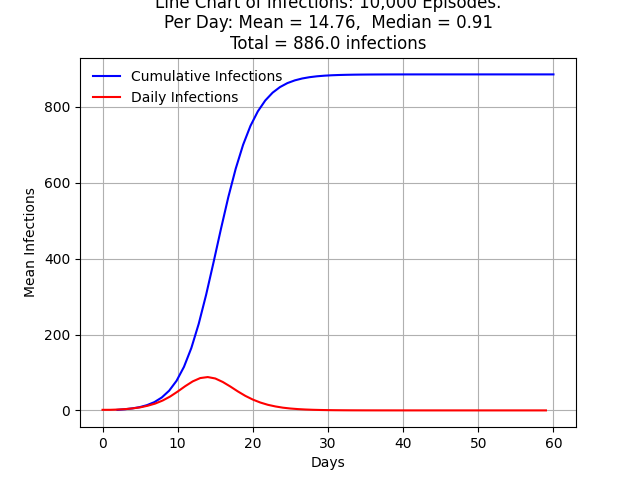
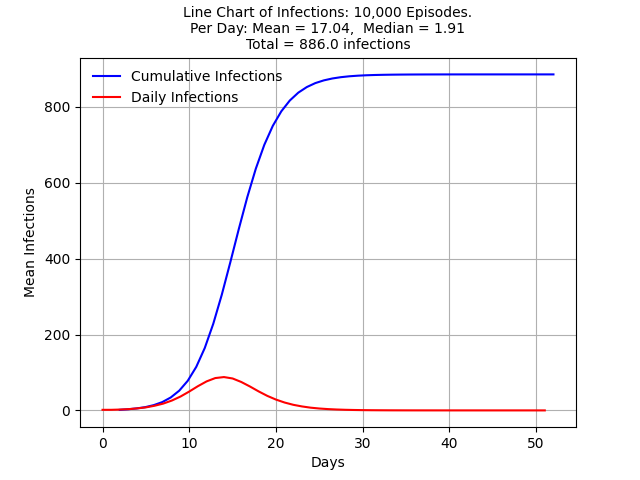
Fixing error for mask rates.

diff --git a/src/mp2.py b/src/mp2.py
@@ -199,7 +199,7 @@ def episode(i, def_param=shared_array):
         # https://www.ncbi.nlm.nih.gov/pmc/articles/PMC7169241/
         # 50% of population, 60-80% effectivity
         mask_protection_factor = 0
-        if ceil(np.random.uniform()) >= 0.5:
+        if np.random.uniform(0, 1) >= 0.5:
             mask_protection_factor = np.random.uniform(0.6, 0.8)
 
         population.append(

diff --git a/src/charts.py b/src/charts.py
@@ -32,8 +32,8 @@ plt.grid()
 
 title = f'Line Chart of Infections: {eps:,} Episodes.\nPer Day: Mean = {_mean},  Median = {_median}\nTotal = {_total} infections'
 
-plt.title(title)
+plt.title(title, fontsize=10)
 plt.xlabel('Days')
 plt.ylabel('Mean Infections')
 plt.savefig(fig_dir / f'Flu_Pandemic_means_{eps}_weekend_{weekend_check}.png')
-plt.show()
+# plt.show()
